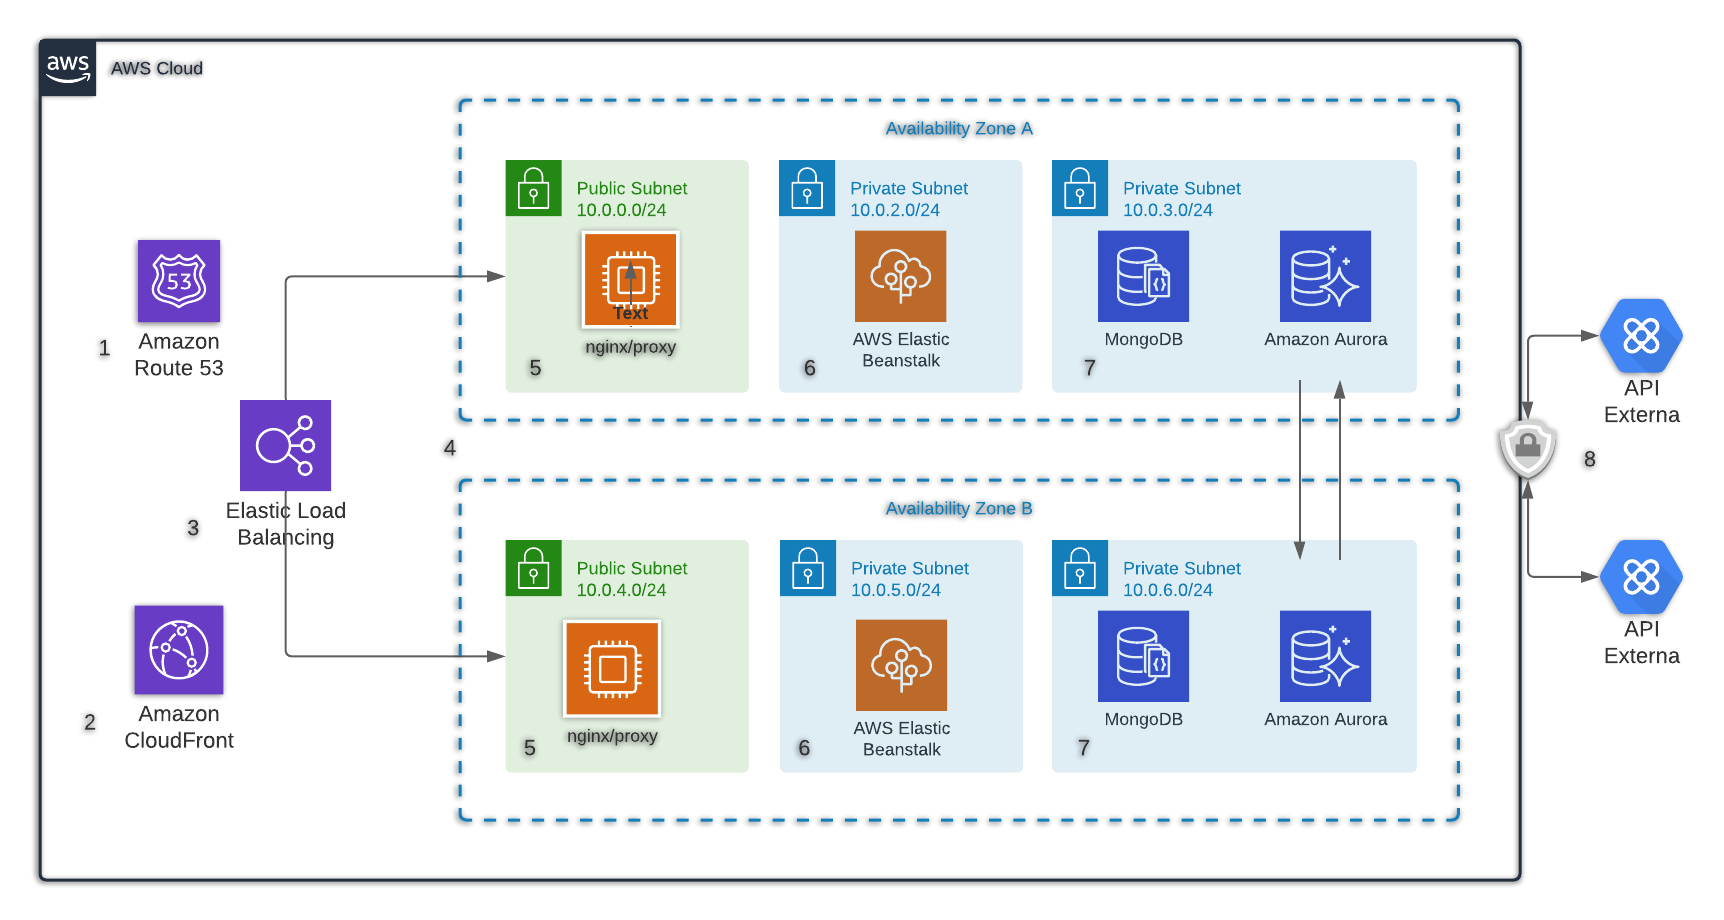
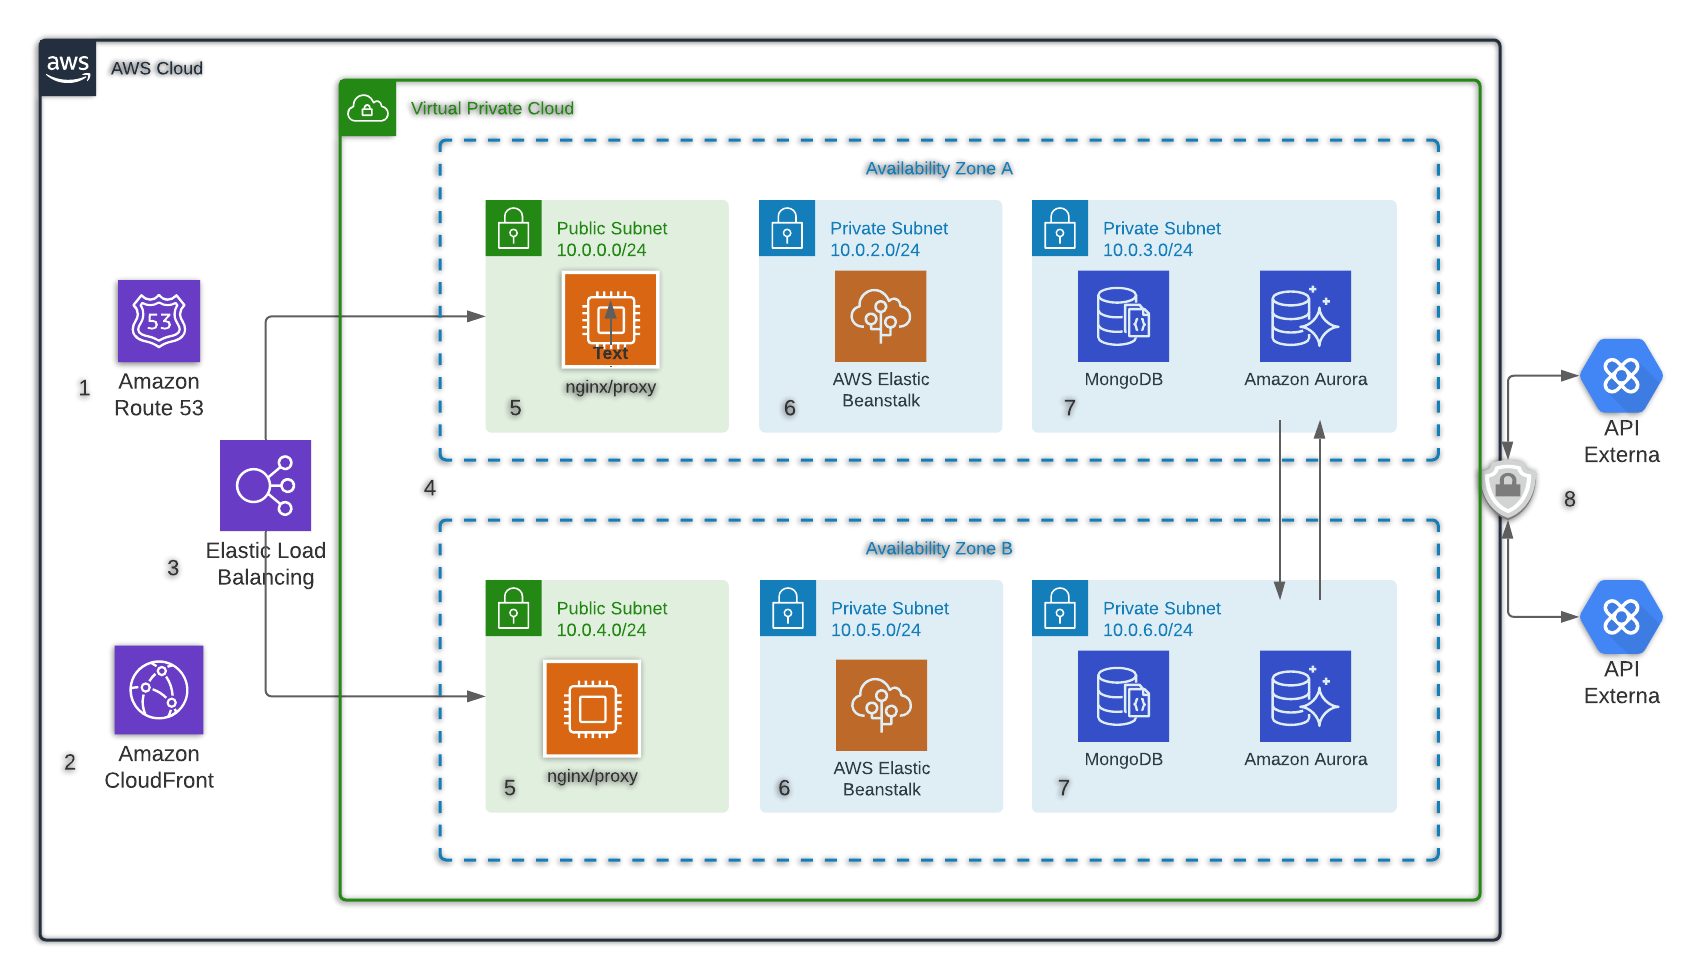
Me comi la VPC y la agregue :-)

Changed region(s): [[0.0, 0.0304, 0.9953, 0.9739]]

diff --git a/README.md b/README.md
@@ -4,8 +4,8 @@
 
 1. Para el registro de dominio y administración de las zonas DNS.
 2. Configuración CDN para distribución global del contenido.
-3. Balanceo entre zonas.
-4. Creación de dos zonas de disponibilidad para HA.
+3. Balanceo entre zonas de la region.
+4. Creación de VPC con dos zonas de disponibilidad para HA.
 5. Nginx en la zona publica configurado como proxy inverso a la solicion.
 6. Se eligio Elastic Beanstalk por la fácil utilización y escalabilidad.
 7. Base de datos en subnet especial, con replicación de la db relacional.
